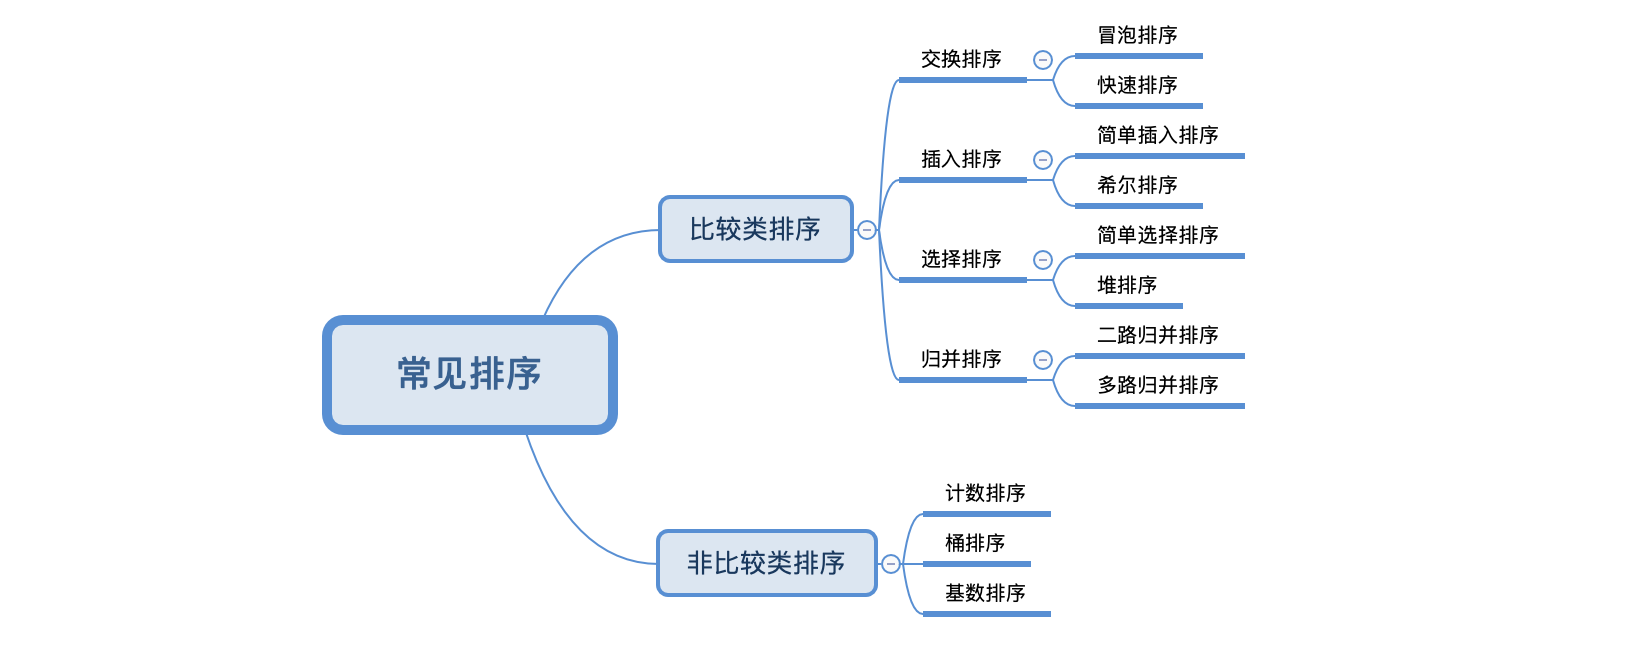
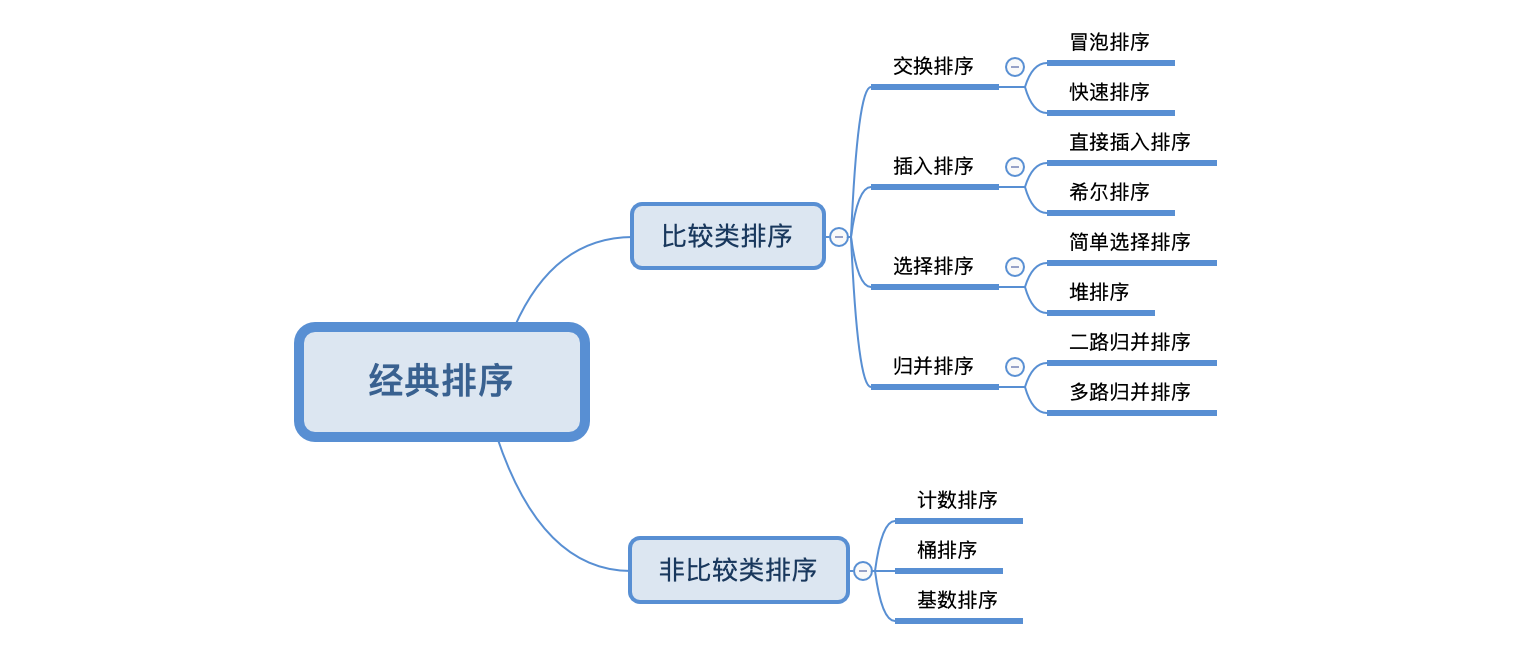
feat: revise README.md & rename StraightInsertionSort

Changed region(s): [[0.1863, 0.0307, 0.8071, 0.7362], [0.3725, 0.7362, 0.683, 0.9816], [0.3415, 0.7669, 0.3725, 0.8282]]

diff --git a/StraightInsertionSort/README.md b/StraightInsertionSort/README.md
@@ -1,0 +1,31 @@
+## 直接插入排序
+
+直接插入排序（Straight Insertion Sort），是一种简单直观的排序算法，它的基本操作是不断地将尚未排好序的数插入到已经排好序的部分，好比打扑克牌时一张张抓牌的动作。在冒泡排序中，经过每一轮的排序处理后，序列后端的数是排好序的；而对于插入排序来说，经过每一轮的排序处理后，序列前端的数都是排好序的。
+
+### 基本思想
+
+先将第一个元素视为一个有序子序列，然后从第二个元素起逐个进行插入，直至整个序列变成元素非递减有序序列为止。如果待插入的元素与有序序列中的某个元素相等，则将待插入元素插入大相等元素的后面。整个排序过程进行 n-1 趟插入。
+
+### 动图演示
+
+![](straight-insertion-sort.gif)
+
+### 代码实现
+
+#### C语言
+
+```c
+void StraightInsertionSort(int arr[], int len) {
+    int i, j, temp;
+    for (i = 1; i < len; i++) {
+        temp = arr[i];
+        for (j = i; j > 0 && arr[j-1] > temp; j--)
+            arr[j] = arr[j-1];
+        arr[j] = temp;
+    }
+}
+```
+
+### 算法分析
+
+插入排序是**稳定排序**，平均时间复杂度为 O(n^2)，空间复杂度为 O(1)。

diff --git a/README.md b/README.md
@@ -6,17 +6,17 @@
 
 ![](sort-category.png)
 
-**比较类排序**：通过比较来决定元素间的相对次序，时间复杂度为 $O(nlog_2n)～O(n^2)$。属于比较类的有：
+**比较类排序**：通过比较来决定元素间的相对次序，时间复杂度为 O(nlogn)～O(n^2)。属于比较类的有：
 
 - [冒泡排序](BubbleSort)
 - [快速排序](QuickSort)
-- [插入排序](InsertionSort)
+- [直接插入排序](StraightInsertionSort)
 - 希尔排序
 - 选择排序
 - 堆排序
 - 归并排序
 
-**非比较类排序**：不通过比较来决定元素间的相对次序，其时间复杂度可以突破  $O(nlog_2n)$，以线性时间运行。属于非比较类的有：
+**非比较类排序**：不通过比较来决定元素间的相对次序，其时间复杂度可以突破 O(nlogn)，以线性时间运行。属于非比较类的有：
 
 - 计数排序
 - 桶排序
